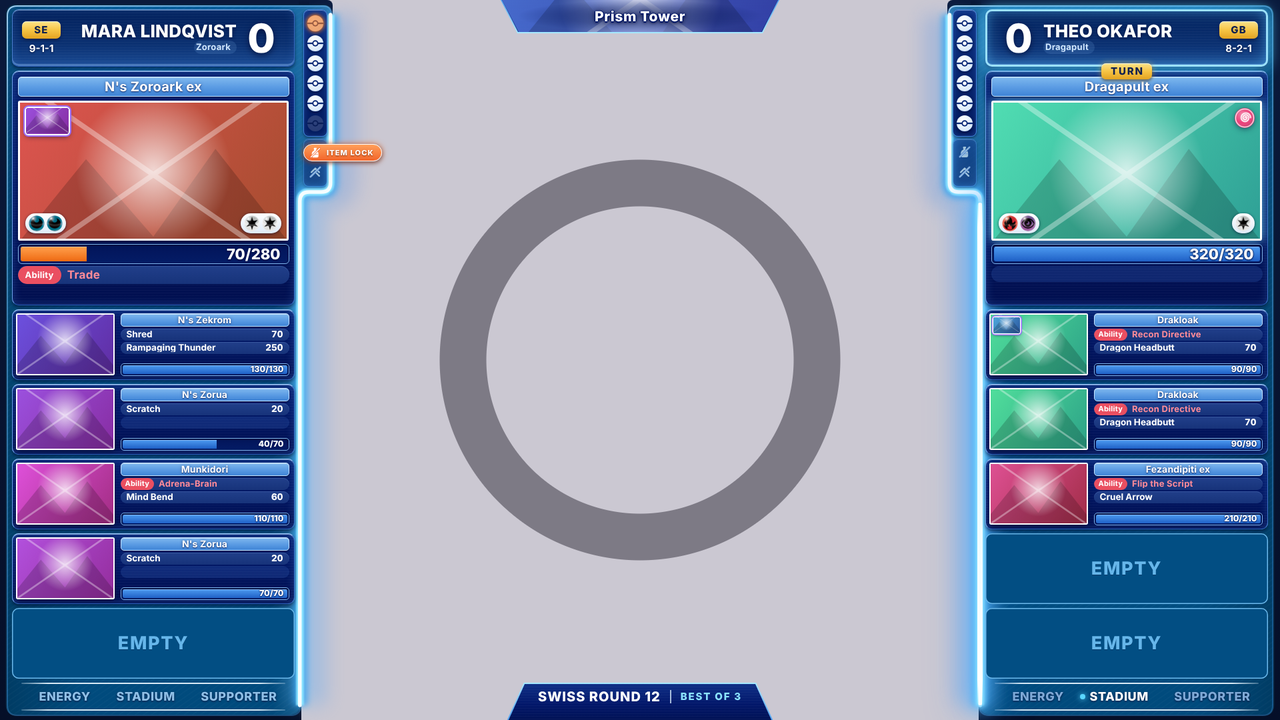
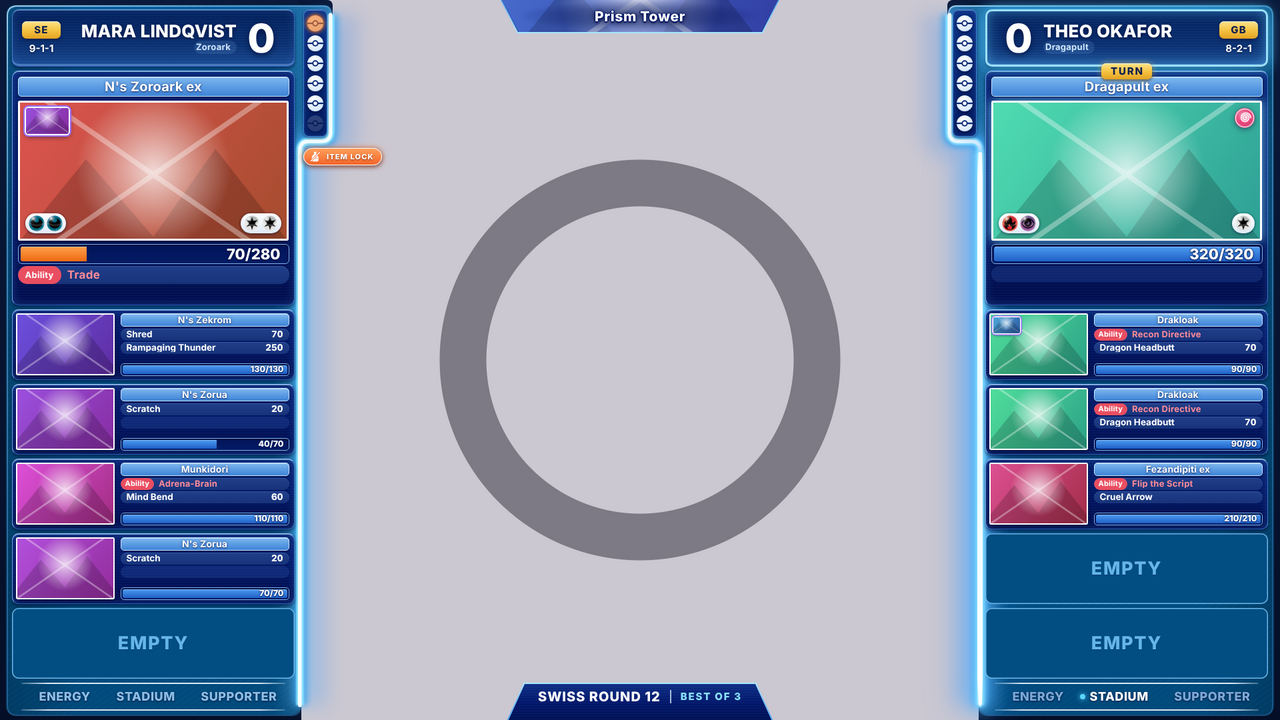
feat: Championship Blue shows the locks only while they are on
The faint tray under the prize strip is gone, and the bump of the frame is
back to its first size. ITEM LOCK and EVOLUTION LOCK are orange pills under
the prize strip that come out over the table while they are on; with no lock
on, nothing is drawn.

Claude-Session: https://claude.ai/code/session_01R7YNhqNJmFRF4wE8qRxu7L

Changed region(s): [[0.2188, 0.1833, 0.3125, 0.275], [0.7188, 0.1833, 0.7812, 0.275]]

diff --git a/assets/designs/championship-blue/styles.css b/assets/designs/championship-blue/styles.css
@@ -67,8 +67,8 @@
 .t-top::after {
   content: "";
   position: absolute;
-  top: 304px;
-  height: 754px;
+  top: 228px;
+  height: 830px;
   width: 8px;
   border-radius: 4px;
   background: linear-gradient(180deg, rgba(255, 255, 255, 0) 0%, #ffffff 5%, #e6faff 50%, #ffffff 95%, rgba(255, 255, 255, 0) 100%);
@@ -277,7 +277,7 @@
 .sb-round[hidden] + .sb-bo, .sb-round.opt-off + .sb-bo { padding-left: 0; border-left: 0; }
 
 /* ============================================================== the prize strip: on the inner edge at the top, a ball for each prize card
-   (under it, in the same bump of the frame, the tray of the locks: see below) */
+   (the locks that are on come out under it: see below) */
 
 .prizes {
   position: absolute;
@@ -354,36 +354,18 @@
 .marker-icon { height: 24px; }
 .token.marker.no-icon { padding: 0 8px; border-radius: 999px; background: rgba(140, 200, 255, 0.14); }
 
-/* ============================================================== the locks: the player's, in a tray under the prize strip
-   The tray has a place for each lock, faint while it is off (.prizes::after, so it goes with the prize strip). A lock that is on is an
-   orange ball with its picture in its place, like a prize ball, with its name in a pill that comes out over the table beside it. */
+/* ============================================================== the locks: the player's, under the prize strip, only while they are on
+   A lock that is on is an orange pill with its picture in a ball at the end next to the column, coming out over the table. With no
+   lock on, nothing is drawn (the engine hides .locks). */
 
-.prizes::after {
-  content: "";
-  position: absolute;
-  left: -1.5px;
-  top: calc(100% + 4px);
-  width: 36px;
-  height: 72px;
-  box-sizing: border-box;
-  border-radius: 8px;
-  border: 1.5px solid #3f80da;
-  background:
-    var(--css-lock-item, none) 50% 8px / 22px 22px no-repeat,
-    var(--css-lock-evolution, none) 50% 38px / 22px 22px no-repeat,
-    linear-gradient(180deg, #0c2f80 0%, #031a5e 100%);
-  background-blend-mode: luminosity, luminosity, normal;
-  box-shadow: inset 0 1px 0 rgba(200, 232, 255, 0.4), inset 0 0 10px rgba(90, 160, 255, 0.25), 0 2px 4px rgba(0, 8, 42, 0.5);
-  opacity: 0.55;
-}
 .locks {
   position: absolute;
   z-index: 3;
-  top: 216px;
+  top: 222px;
   width: 36px;
   height: 56px;
-  display: block;
 }
+.locks[hidden] { display: none; }
 .trainer-a .locks { left: 445px; }
 .trainer-b .locks { left: -41px; }
 .lock {
@@ -1101,7 +1083,7 @@
 .trainer.moment-turn::after {
   content: "";
   position: absolute;
-  top: 304px;
+  top: 228px;
   width: 12px;
   height: 200px;
   margin-left: -2px;
@@ -1196,7 +1178,7 @@
   70% { opacity: 0.6; transform: perspective(200px) rotateY(180deg) scale(1.08); filter: grayscale(0.5); box-shadow: 0 0 10px 3px rgba(140, 230, 255, 0.5); }
   100% { opacity: 0.16; transform: perspective(200px) rotateY(360deg) scale(1); filter: grayscale(1); box-shadow: none; }
 }
-@keyframes chb-run { 0% { opacity: 0; transform: translateY(0); } 12% { opacity: 1; } 85% { opacity: 1; } 100% { opacity: 0; transform: translateY(570px); } }
+@keyframes chb-run { 0% { opacity: 0; transform: translateY(0); } 12% { opacity: 1; } 85% { opacity: 1; } 100% { opacity: 0; transform: translateY(650px); } }
 @keyframes chb-head-on { 0% { opacity: 0; } 25% { opacity: 1; box-shadow: 0 0 30px 8px rgba(120, 225, 255, 0.95), inset 0 0 28px rgba(120, 225, 255, 0.65); } 100% { opacity: 1; } }
 @keyframes chb-token {
   0% { transform: scale(1); text-shadow: 0 0 0 rgba(140, 230, 255, 0); }

diff --git a/docs/examples/championship-blue/README.md b/docs/examples/championship-blue/README.md
@@ -16,7 +16,7 @@ Each column is a medium blue frame with a glossy rim. Its cards are stacked insi
 |-------|-----------|
 | Each column, top | The header card: the trainer's name (two lines at most, then `…`), the games won in big white numbers on the side of the table, the country in a gold pill on the outer side with the record under it, and the deck in a small pill under the name. With an avatar, the avatar takes the outer side and the gold pill moves in |
 | Next to the header | The prize cards, as six white balls in a navy strip that sits in a bump of the frame. Each taken prize fades to gray on its own. A penalty marks the balls orange (no flag: the orange says it). A card put on a prize and shown face up shows the middle of its picture in the ball |
-| Under the prize cards | The locks, which are the player's: a tray in the same bump with a place for each, faint while it is off. ITEM LOCK or EVOLUTION LOCK puts an orange ball with its picture (a crossed-out potion, a crossed-out evolution arrow) in its place, with its name in a pill that comes out over the table |
+| Under the prize cards | The locks, which are the player's, only while they are on: ITEM LOCK or EVOLUTION LOCK is an orange pill with its name and its picture in a ball (a crossed-out potion, a crossed-out evolution arrow), coming out over the table. With no lock on, nothing is there |
 | The Active card | A light-blue name bar, the picture in a white frame (attached energy bottom left, retreat cost bottom right, conditions top right, a Pokémon Tool as a little picture top left, as on the bench), the HP box, then navy rows with rounded ends: a red **Ability** pill and the ability's name in red (gray, with USED, once it is used). One empty row sits under the HP box, as on the original card; the first row covers it. Rows are 27 px high and get lower when two or three must fit. An empty Active card shows a faint ball |
 | The bench | A card for each bench slot, each in a place of its own over five EMPTY plates: the picture in a white frame (attached energy bottom left, conditions top right, a Pokémon Tool as a little picture top left), the name bar, up to three rows (abilities, Tool names, attacks with their damage) and the HP bar across the bottom. An empty slot shows its EMPTY plate, so a knock out or a promotion never moves the rest of the bench |
 | A bigger bench | A bench of 6 to 8 places stays inside the column: every card gets shorter (a band of the picture, the name, the HP bar, and the rows that fit: two with 6 places, one with 7, none with 8), and so do the EMPTY plates |
@@ -38,7 +38,7 @@ The footer says what that trainer has used this turn: a counter that is still fr
 `styles.css` comes after the classic look and restyles the whole overlay:
 
 - **It places every piece.** The design has no layout entries: the header cards, the round tab, the prize strips, the Active cards, the benches, the feature cards, the footers, the locks, the TURN tags and the Stadium tab are where the style sheet puts them. Each column is 440 px wide at 10 px from the screen edge, and its cards are 424 px wide.
-- **It draws the cards**: the navy cards with their thin light borders and scanlines, the name bars, the rows, the HP boxes, the EMPTY plates (drawn on the bench, so they go when the producer hides the bench), the prize balls, the tray of the locks (drawn on the prize strip), the tabs.
+- **It draws the cards**: the navy cards with their thin light borders and scanlines, the name bars, the rows, the HP boxes, the EMPTY plates (drawn on the bench, so they go when the producer hides the bench), the prize balls, the tabs.
 - **It takes the scoreboard apart** into the two header cards and the round tab.
 - **It restyles the announcements.** The full-screen effects stay inside the camera window, between the light bars. Their titles are white capitals with a navy outline and a glow in the effect's color, and their second line is cyan. An attack's slash is the design's red, and its big damage number is not shown, since the Pokémon shows it and the line under the title says it. A knock out is a red glow at the edges of the window, a turn passed a blue band, a top deck gold, a victory a gold glow with confetti, a game start a navy wipe. The banner (when the producer switches the toast banners back on) is a card of the columns, low in the window, with its title in a light-blue name bar, and it rises into place. The shake of the whole overlay on a knock out is switched off (it lays the whole overlay out again at every frame, and it made the knock outs drop frames).
 - **It animates the moments** (below).
@@ -110,7 +110,7 @@ They are in [`assets/designs/championship-blue`](../../../assets/designs/champio
 |------|-----------|
 | `design.json` | The colors, the font, the HP box under the pictures, the crop of the Active picture (a wide band of the card's picture) and of the Stadium's |
 | `styles.css` | The style sheet: where every piece goes, how the cards look, the announcements and the animations |
-| `images/backgroundImage.svg` | The two column frames, with their light bars, the bump that holds the prize strip and the tray of the locks, and the white rules of the footers |
+| `images/backgroundImage.svg` | The two column frames, with their light bars, the bump that holds the prize strip, and the white rules of the footers |
 | `images/prizeCardBack.svg` | The white ball of the prize cards |
 | `images/css-ball.svg` | A picture for the style sheet: the faint ball of an empty Active card |
 | `images/css-lock-item.svg`, `images/css-lock-evolution.svg` | Pictures for the style sheet: the crossed-out potion of ITEM LOCK and the crossed-out evolution arrow of EVOLUTION LOCK |

diff --git a/CHANGELOG.md b/CHANGELOG.md
@@ -15,7 +15,7 @@ and this project adheres to [Semantic Versioning](https://semver.org/spec/v2.0.0
 
 ### Changed
 - **Championship Blue is OTO's default look.** It comes with the app (`assets/designs/championship-blue`) and OTO puts it in the designs at start, once for each version of it: on the overlay when no design is, and, on a new install, with its control settings (the bench attacks, the turn highlight and the design animations on, the toast banners off). A design you put on the overlay stays there, and an install that was in use keeps its settings. A design called Championship Blue is replaced by the new version, so make a copy under another name to change it. The look without a design is now called the **Classic look**. `docs/examples/championship-blue.oto` is made from the same files (`npm run pack:example`)
-- **Championship Blue, second pass** (after a test on a real match): the ITEM LOCK and EVOLUTION LOCK are the player's, as orange balls in a tray under the prize strip with their names beside them, instead of chips on the Active Pokémon's picture; no PENALTY flag under the prizes (the orange balls say it); a Pokémon Tool on the Active Pokémon is a little picture at the top left of its picture, as on the bench, instead of a row; a bench of 6 to 8 places stays inside the column, with shorter cards; the Stadium's picture is clear in its tab, with a soft shade behind its name only; the feature cards cover the chosen bench as a FEATURED card, with the stacks one over the other; and its control settings switch the toast banners off
+- **Championship Blue, second pass** (after a test on a real match): the ITEM LOCK and EVOLUTION LOCK are the player's, as orange pills under the prize strip, shown only while they are on, instead of chips on the Active Pokémon's picture; no PENALTY flag under the prizes (the orange balls say it); a Pokémon Tool on the Active Pokémon is a little picture at the top left of its picture, as on the bench, instead of a row; a bench of 6 to 8 places stays inside the column, with shorter cards; the Stadium's picture is clear in its tab, with a soft shade behind its name only; the feature cards cover the chosen bench as a FEATURED card, with the stacks one over the other; and its control settings switch the toast banners off
 - **New icons for the special conditions**, in one style: a disc in the color of the condition with a white rim and a shape of its own (a moon for Asleep, a flame for Burned, a spiral for Confused, a lightning bolt for Paralyzed, a drop for Poisoned, a chain for Trapped), so they are told apart by their shape as well as their color, also at 20 pixels. They are drawn by `scripts/make-status-icons.js` and are under the MIT license like the code. Trapped is no longer a black drawing on a white disc
 - **No toast banners by default.** The small notifications at the bottom of the overlay are off to begin with (Settings, Overlay, *Toast banners*), so on stream only the full-screen effects show; switch them on to have them back. The PAUSED banner no longer depends on them: it shows while the game is paused unless the game pause banner itself is switched off
 - The **Next game**, **New match** and **Reset score** buttons are centred in the control panel's Match card, also when they wrap onto two lines
